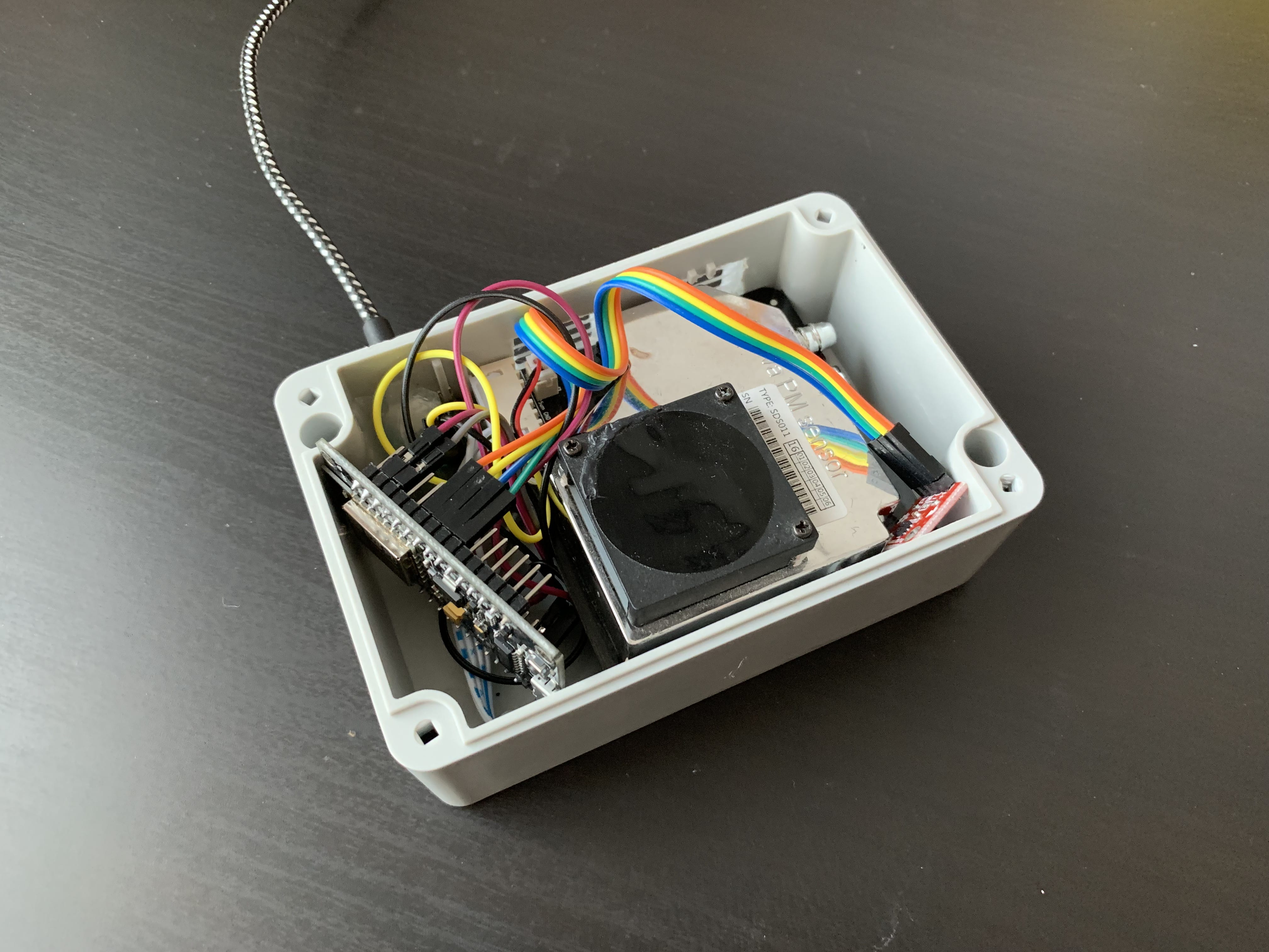
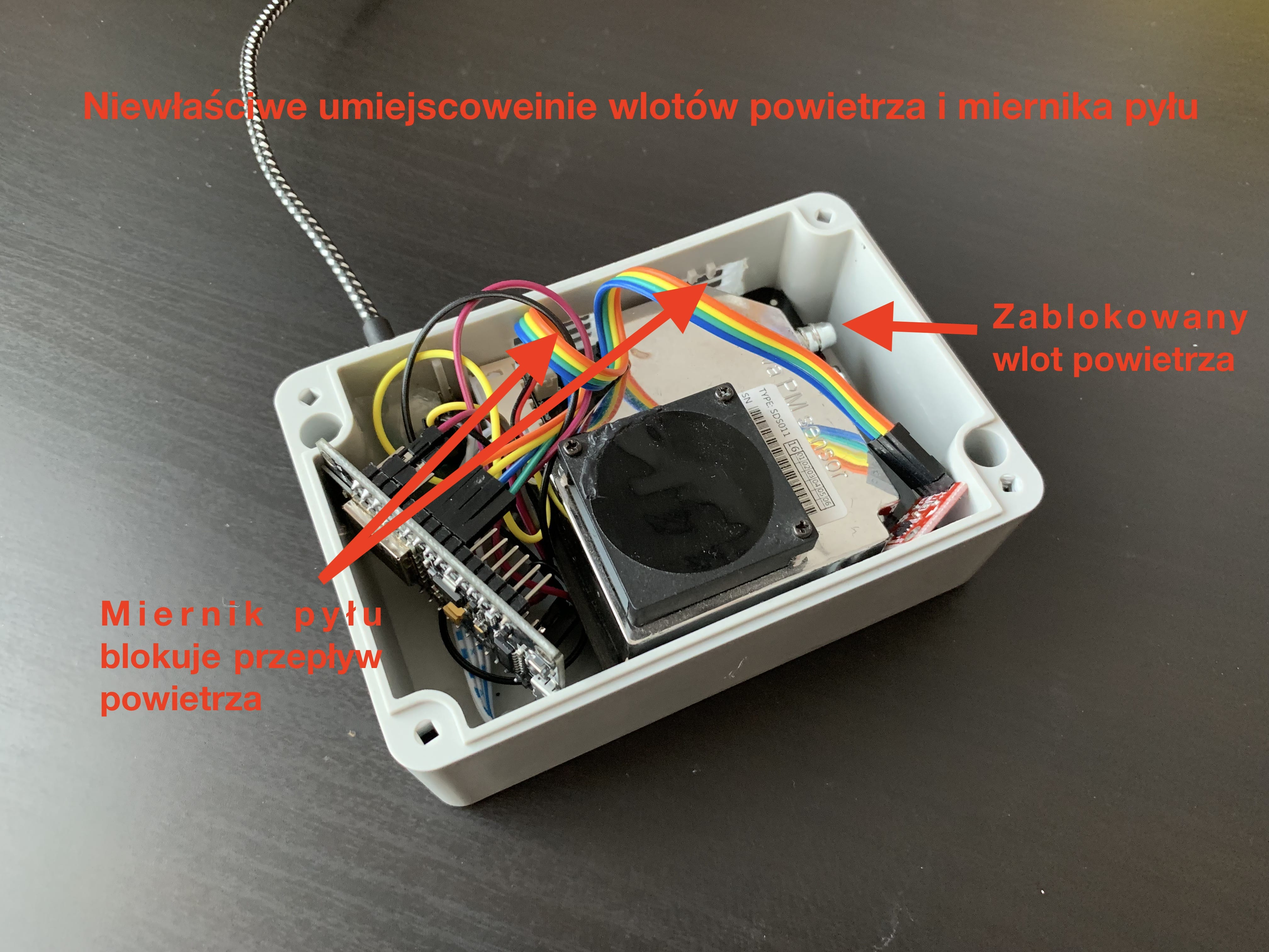
added an example of the wrong placement of PM sensor

diff --git a/instrukcje/hardware.md b/instrukcje/hardware.md
@@ -84,7 +84,7 @@ Zgodnie ze schmeatem na początku instrukcji, łączymy wszystkie elementy ze so
 
 ## Umiejscowienie podzespołów w obudowie
 
-Jeśli postanowiliśmy użyć jako miernika pyłu modelu SDS011 to obudowa może wydawać się dość mała, ale wszystkie elementy zmieszczą się w niej bez problemu. Jeśli korzystamy z PMS7003 lub HPMA115S0 mamy nadmiar miejsca. Musimy pamiętać, aby wloty z mietnika pyłu umiejscowić jak najbliżej otworów wentylacyjnych w obudowie. Pozwoli to na lepszy przepływ powietrza i dokładniejsze pomiary.
+Jeśli postanowiliśmy użyć jako miernika pyłu modelu SDS011 to obudowa może wydawać się dość mała, ale wszystkie elementy zmieszczą się w niej bez problemu. Jeśli korzystamy z PMS7003 lub HPMA115S0 mamy nadmiar miejsca. Musimy pamiętać, aby wloty z mietnika pyłu umiejscowić jak najbliżej otworów wentylacyjnych w obudowie. Pozwoli to na lepszy przepływ powietrza i dokładniejsze pomiary. Polecam ustawienie mierników w obudowie w taki sposób, aby wiatraczkem z miernika pyłu znajdował się obok otworu wentylacyjnego. 
 
 ![Calosc_PMS5003](https://raw.githubusercontent.com/hackerspace-silesia/Smogomierz/master/instrukcje/photos/Calosc_PMS5003.jpg)
 ![Calosc_SDS](https://raw.githubusercontent.com/hackerspace-silesia/Smogomierz/master/instrukcje/photos/Calosc_SDS.jpg)
